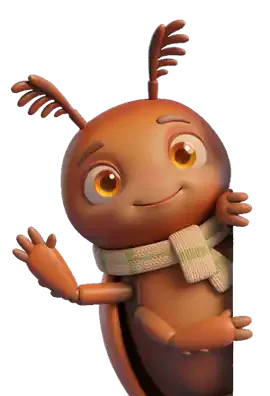
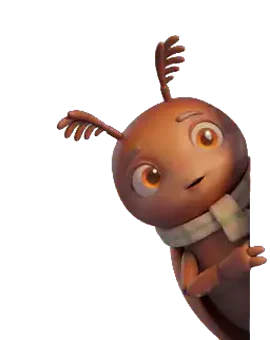
feat: bienvenida actuada del escarabajo desde la esquina inferior

diff --git a/src/components/personaje/BienvenidaEscarabajo.jsx b/src/components/personaje/BienvenidaEscarabajo.jsx
@@ -1,27 +1,49 @@
-import React, { useEffect, useRef, useState } from 'react'
+import React, { useEffect, useLayoutEffect, useRef, useState } from 'react'
+import { createPortal } from 'react-dom'
 import { marcarBienvenida } from './bienvenida'
 import styles from './BienvenidaEscarabajo.module.css'
 
 // Bienvenida del Home (solo la cuenta de Daniel, una vez al dia; el filtro vive
-// en PanelPage). El escarabajo se asoma desde el borde derecho de la pantalla:
-// entra deslizandose con el primer cuadro quieto, saluda una vez (WebP animado
-// de 5 s, sin bucle) y sale hacia la derecha. Al terminar se desmonta.
+// en PanelPage). El escarabajo actua solo, sin movimiento por codigo: se asoma
+// en la esquina inferior derecha, saluda, se despide y se esconde detras del
+// borde de la pantalla (video 15 de Gemini, tramo 3,708 s a 9,125 s). Aparece
+// con un fundido en el primer cuadro y se desmonta cuando el WebP termina, en
+// un cuadro ya vacio.
 //
-// El WebP se baja como blob y se muestra con una URL propia: asi el saludo
-// arranca siempre desde el primer cuadro, aunque el navegador ya lo tenga en
-// memoria de una vuelta anterior (con la misma URL quedaria en el ultimo).
+// El WebP se baja como blob y se muestra con una URL propia: asi arranca
+// siempre desde el primer cuadro, aunque el navegador ya lo tenga en memoria
+// de una vuelta anterior (con la misma URL quedaria en el ultimo).
 
 const SALUDO = '/personaje/home/asomado-saludo.webp'
 const POSTER = '/personaje/home/asomado-saludo-poster.webp'
-const DURACION_SALUDO = 5040 // ms, 90 cuadros a 18 fps
-const PAUSA_ANTES_DE_SALIR = 400
-const RESPALDO_TRANSICION = 1200 // por si transitionend no llega
+const DURACION_SALUDO = 5500 // ms, 131 cuadros a 24 fps; el ultimo esta vacio
+const MARGEN_FINAL = 150
+const RESPALDO_FUNDIDO = 600 // por si transitionend no llega
+
+// Geometria del archivo (270 px): la linea donde se corta el cuerpo esta al
+// 92,58 % del ancho; lo que sigue son los dedos, que quedan fuera de pantalla.
+const CORTE = 0.92578
+const ANCHO = 150
+const ANCHO_MIN = 130
+const DISTANCIA_AL_MAS = 8
+
+// Borde superior de la barra inferior y lado derecho del +, medidos en vivo:
+// el alto de la barra cambia con la zona segura del iPhone.
+function medir() {
+  const nav = document.querySelector('[data-nav-inferior]')
+  const mas = document.querySelector('[data-nav-registrar]')
+  const pantalla = window.innerWidth
+  const borde = nav ? nav.getBoundingClientRect().top : window.innerHeight
+  const cabe = mas ? (pantalla - mas.getBoundingClientRect().right - DISTANCIA_AL_MAS) / CORTE : ANCHO
+  return { borde, ancho: Math.max(ANCHO_MIN, Math.min(ANCHO, Math.floor(cabe))) }
+}
 
 export default function BienvenidaEscarabajo({ userId, alTerminar }) {
-  // cargando -> fuera -> entrando -> saludando -> saliendo
+  // cargando -> oculto -> visible -> saludando
   const [fase, setFase] = useState('cargando')
   const [saludo, setSaludo] = useState(null)
   const [animado, setAnimado] = useState(false)
+  const [geo, setGeo] = useState(null)
   const terminar = useRef(alTerminar)
   terminar.current = alTerminar
 
@@ -38,54 +60,59 @@ export default function BienvenidaEscarabajo({ userId, alTerminar }) {
       if (!vivo) return
       url = URL.createObjectURL(blob)
       setSaludo(url)
-      setFase('fuera')
+      setFase('oculto')
     }).catch(() => { if (vivo) terminar.current() })
     return () => { vivo = false; if (url) URL.revokeObjectURL(url) }
   }, [])
 
-  // 'fuera' se pinta un cuadro fuera de pantalla y recien ahi entra
+  useLayoutEffect(() => {
+    if (fase === 'cargando') return
+    const actualizar = () => setGeo(medir())
+    actualizar()
+    window.addEventListener('resize', actualizar)
+    return () => window.removeEventListener('resize', actualizar)
+  }, [fase === 'cargando'])
+
+  // 'oculto' se pinta un cuadro en opacidad 0 y recien ahi se funde
   useEffect(() => {
-    if (fase !== 'fuera') return
+    if (fase !== 'oculto' || !geo) return
     marcarBienvenida(userId)
-    const id = requestAnimationFrame(() => requestAnimationFrame(() => setFase('entrando')))
+    const id = requestAnimationFrame(() => requestAnimationFrame(() => setFase('visible')))
     return () => cancelAnimationFrame(id)
-  }, [fase, userId])
+  }, [fase, geo, userId])
 
   useEffect(() => {
-    if (fase === 'entrando') {
-      const t = setTimeout(() => setFase('saludando'), RESPALDO_TRANSICION)
+    if (fase === 'visible') {
+      const t = setTimeout(() => setFase('saludando'), RESPALDO_FUNDIDO)
       return () => clearTimeout(t)
     }
     if (fase === 'saludando' && animado) {
-      const t = setTimeout(() => setFase('saliendo'), DURACION_SALUDO + PAUSA_ANTES_DE_SALIR)
-      return () => clearTimeout(t)
-    }
-    if (fase === 'saliendo') {
-      const t = setTimeout(() => terminar.current(), RESPALDO_TRANSICION)
+      const t = setTimeout(() => terminar.current(), DURACION_SALUDO + MARGEN_FINAL)
       return () => clearTimeout(t)
     }
   }, [fase, animado])
 
-  const alTerminarTransicion = (e) => {
-    if (e.target !== e.currentTarget || e.propertyName !== 'transform') return
-    if (fase === 'entrando') setFase('saludando')
-    else if (fase === 'saliendo') terminar.current()
+  const alTerminarFundido = (e) => {
+    if (e.target === e.currentTarget && e.propertyName === 'opacity' && fase === 'visible') setFase('saludando')
   }
 
-  if (fase === 'cargando') return null
+  if (fase === 'cargando' || !geo) return null
 
-  const dentro = fase === 'entrando' || fase === 'saludando'
-  return (
-    <div className={styles.capa} aria-hidden="true">
+  // En body y no dentro de la pagina: mientras la pagina entra con transform,
+  // un fixed dentro de ella se mediria contra la pagina y no contra la pantalla.
+  return createPortal(
+    <div className={styles.capa} style={{ height: geo.borde }} aria-hidden="true">
       <div
-        className={`${styles.escarabajo} ${dentro ? styles.dentro : ''} ${fase === 'saliendo' ? styles.saliendo : ''}`}
-        onTransitionEnd={alTerminarTransicion}
+        className={`${styles.escarabajo} ${fase === 'oculto' ? '' : styles.visible}`}
+        style={{ width: geo.ancho, right: -geo.ancho * (1 - CORTE) }}
+        onTransitionEnd={alTerminarFundido}
       >
         {!animado && <img className={styles.imagen} src={POSTER} alt="" draggable="false" />}
-        {fase !== 'fuera' && fase !== 'entrando' && (
+        {fase === 'saludando' && (
           <img className={styles.imagen} src={saludo} alt="" draggable="false" onLoad={() => setAnimado(true)} />
         )}
       </div>
-    </div>
+    </div>,
+    document.body
   )
 }

diff --git a/src/components/personaje/BienvenidaEscarabajo.module.css b/src/components/personaje/BienvenidaEscarabajo.module.css
@@ -1,34 +1,31 @@
-/* Capa sobre toda la pantalla que no recibe toques ni mueve el scroll. El
-   overflow hidden recorta lo que pasa del borde derecho (los dedos). */
+/* Capa desde arriba de la pantalla hasta el borde superior de la barra
+   inferior (el alto lo pone el componente, medido en vivo). No recibe toques
+   ni mueve el scroll. El overflow hidden recorta lo que pasa del borde derecho
+   (los dedos) y deja la barra siempre por encima: el escarabajo nunca se
+   dibuja sobre ella. */
 .capa {
   position: fixed;
-  inset: 0;
+  top: 0;
+  left: 0;
+  right: 0;
   overflow: hidden;
   pointer-events: none;
   z-index: 50;
 }
 
-/* 150 px de ancho (el archivo es de 270). En el archivo la linea de corte del
-   cuerpo esta a 232 de 270 px, o sea a 129 de 150: con right -21px el corte
-   cae justo en el borde derecho de la pantalla y los dedos quedan 11 px
-   afuera. Fuera de escena se corre su propio ancho a la derecha. */
+/* Esquina inferior derecha. El borde de abajo del archivo es el corte del
+   cuerpo y cae sobre la barra; el ancho y el `right` negativo (lo que ocupan
+   los dedos pasado el corte) los pone el componente. */
 .escarabajo {
   position: absolute;
-  top: 50%;
-  right: -21px;
-  width: 150px;
-  aspect-ratio: 270 / 396;
-  transform: translate(100%, -50%);
+  bottom: 0;
+  aspect-ratio: 270 / 340;
+  opacity: 0;
 }
 
-.dentro {
-  transform: translate(0, -50%);
-  transition: transform var(--motion-lenta) var(--motion-ease-entrada);
-}
-
-.saliendo {
-  transform: translate(100%, -50%);
-  transition: transform var(--motion-lenta) var(--motion-ease-salida);
+.visible {
+  opacity: 1;
+  transition: opacity var(--motion-rapida) var(--motion-ease-entrada);
 }
 
 .imagen {

diff --git a/src/components/layout/Layout.jsx b/src/components/layout/Layout.jsx
@@ -317,13 +317,14 @@ export default function Layout() {
         )}
       </main>
 
-      <nav className={styles.bottomNav}>
+      {/* data-nav-*: la bienvenida del escarabajo mide aca el borde de la barra y el + */}
+      <nav className={styles.bottomNav} data-nav-inferior="">
         {navItems.map(({ to, icon: Icon, label, destacado, esPerfil }) =>
           destacado ? (
             <NavLink key={to} to={to} className={({ isActive }) =>
               `${styles.navRegistrar} ${isActive ? styles.navRegistrarActive : ''}`
             }>
-              <div className={styles.navRegistrarBtn}>
+              <div className={styles.navRegistrarBtn} data-nav-registrar="">
                 <Icon size={22} />
               </div>
               <span className={styles.navRegistrarLabel}>{label}</span>
